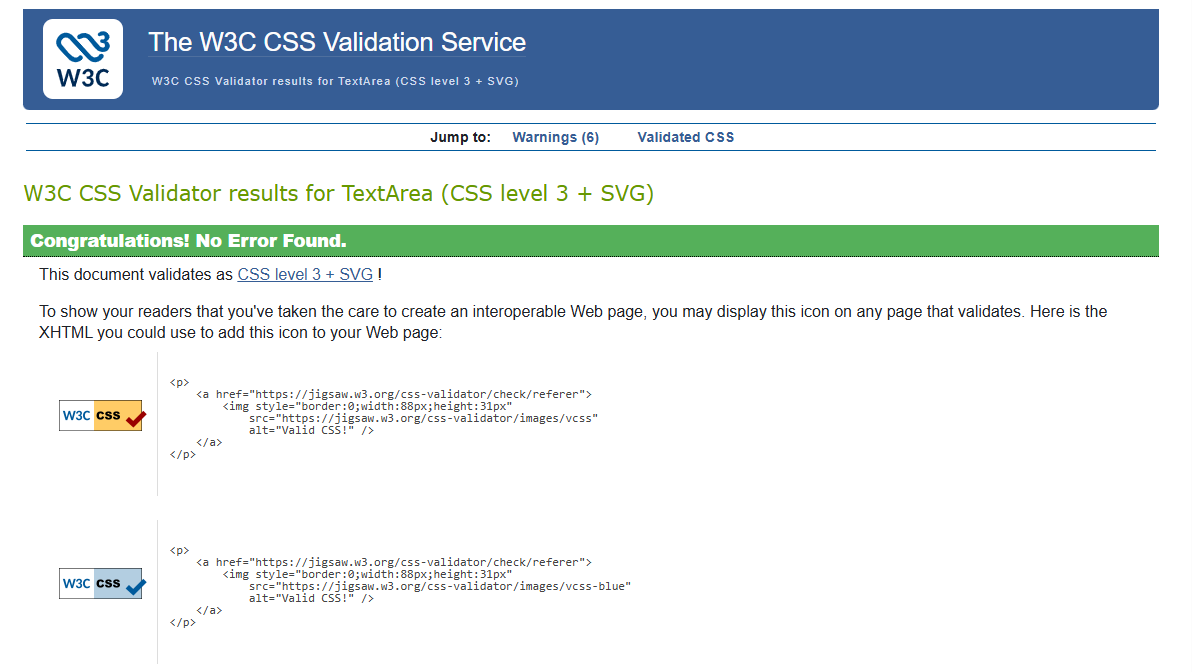
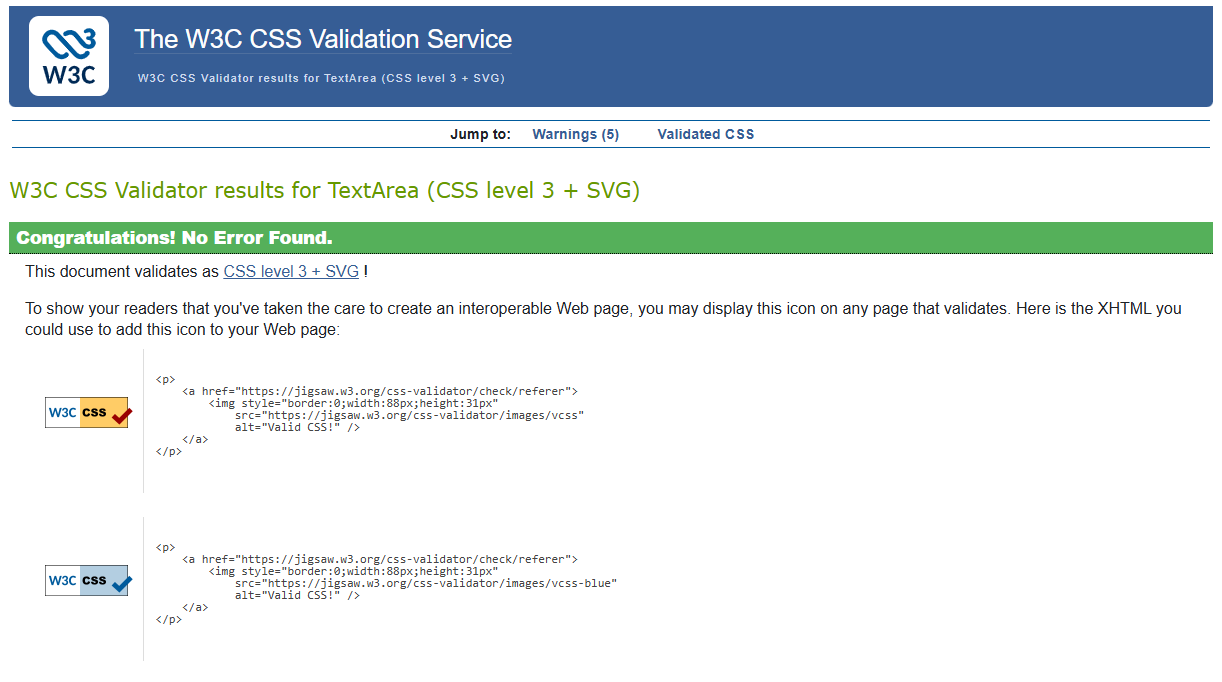
Add readme content an dtesting information

diff --git a/TESTING.md b/TESTING.md
@@ -7,7 +7,18 @@
 
 ### HTML
 
+| Test | Before | After |
+| ----------- | ----------- | ----------- |
+| HTML W3C validation using URL | ![screenshot showing html validation errors](testing/html/html-validation-errors.png) | ![validation after fixing code no erros](testing/html/w3c-html-validation-url.png) |
+| HTML W3C validation using Source code | ![screenshot showing html validation errors](testing/html/html-validation-errors.png) | ![validation after fixing code no erros](testing/html/w3c-html-validation-src-code.png) |
+
 ### CSS
+
+| Test | Result | Warnings |
+| ----------- | ----------- | ----------- |
+| CSS Jigsaw validator | ![CSS validation no errors](testing/css/css-validation.png) | ![warnings](testing/css/css-validation-warning.png) |
+
+Warnings are due to using root variables to organise color schemese. They have not effect on the code.
 
 ---
 ## Responsiveness
@@ -16,13 +27,32 @@
 ---
 ## Browser Compatibility
 
+| Chrome | FireFox | Edge |
+| ----------- | ----------- | ----------- |
+| ![chrome compatiblity scrrenshot](testing/browser-comp/chrome/chrome-desktop.png) | ![firefox browser compatibility](testing/browser-comp/firefox/firefox-desktop.png) | ![microsoft edge compatbility](testing/browser-comp/edge/edge-desktop.png) |
 ---
 ## Lighthouse Audit
 
+| Mobile | Desktop |
+| ----------- | ----------- |
+| ![mobile lighthouse test result, 86/100 for performance, 100/100 for Accessbility, 100/100 fo Best practices](testing/lighthouse/mobile-lighthouse-test.png) | ![Desktop lighthouse result, 97/00 for perfomrance, 100/100 for Accessibility and 100/100 for Best pracices](testing/lighthouse/desktop-lighthouse-test.png)
+
 ---
 ## User Story Testing
+Refer to user stories for full details in README.md
 
-
+| User Story | Evidence | 
+| ----------- | ----------- |
+| As a visitor, I want a clear navigation menu so that I can quickly access different sections of the webpage. | ![navigation evidence](testing/user-stories/navbar.png) |
+| As a first-time visitor, I want an engaging introduction so that I immediately understand the purpose of the website. | ![hero section with header, subheading and Call to action button](testing/user-stories/hero-cta.png) |
+| As a visitor, I want easy-to-understand information about mental health so that I can develop a basic understanding of the topic | ![what is mental health section](testing/user-stories/about.png) |
+| As a visitor, I want information about common mental health challenges so that I can recognise some common experiences. | ![common challenges section](testing/user-stories/challenges.png) |
+| As a visitor, I want practical wellbeing tips so that I can learn simple ways to support my mental health. | ![practical tips formental wellbeing](testing/user-stories/tips.png) |
+| As a user, I want the website to be accessible so that I can easily read and navigate the content. | ![light house accesibility score](testing/accessibility/accessibilty-test.png) |
+| As a visitor using different devices, I want the website to display correctly on any screen size. |  |
+| As a visitor, I want links to trusted organisations so that I can access further support if needed. | ![links to resources](testing/user-stories/resources.png) |
+| As a visitor, I want to provide feedback so that I can suggest improvements to the webpage. | ![contact form section](testing/user-stories/contact-form.png) |
+| As a visitor, I want to read an encouraging message so that I leave the website feeling supported. | ![affirmations](testing/user-stories/affirmations.png) |
 ---
 ## Bugs
 

diff --git a/README.md b/README.md
@@ -581,6 +581,7 @@ By forking the GitHub Repository, you make a copy of the original repository on 
 
 - All images were generated with Micorsoft Co-pilot
 - video was obtained from [Maudsley learning](https://maudsleylearning.com/) on what is mental health.
+- Images were resized and converted from png to webP using [Squoosh.app](https://squoosh.app/editor)
 
 ### Frameworks, Icons and Fonts
 